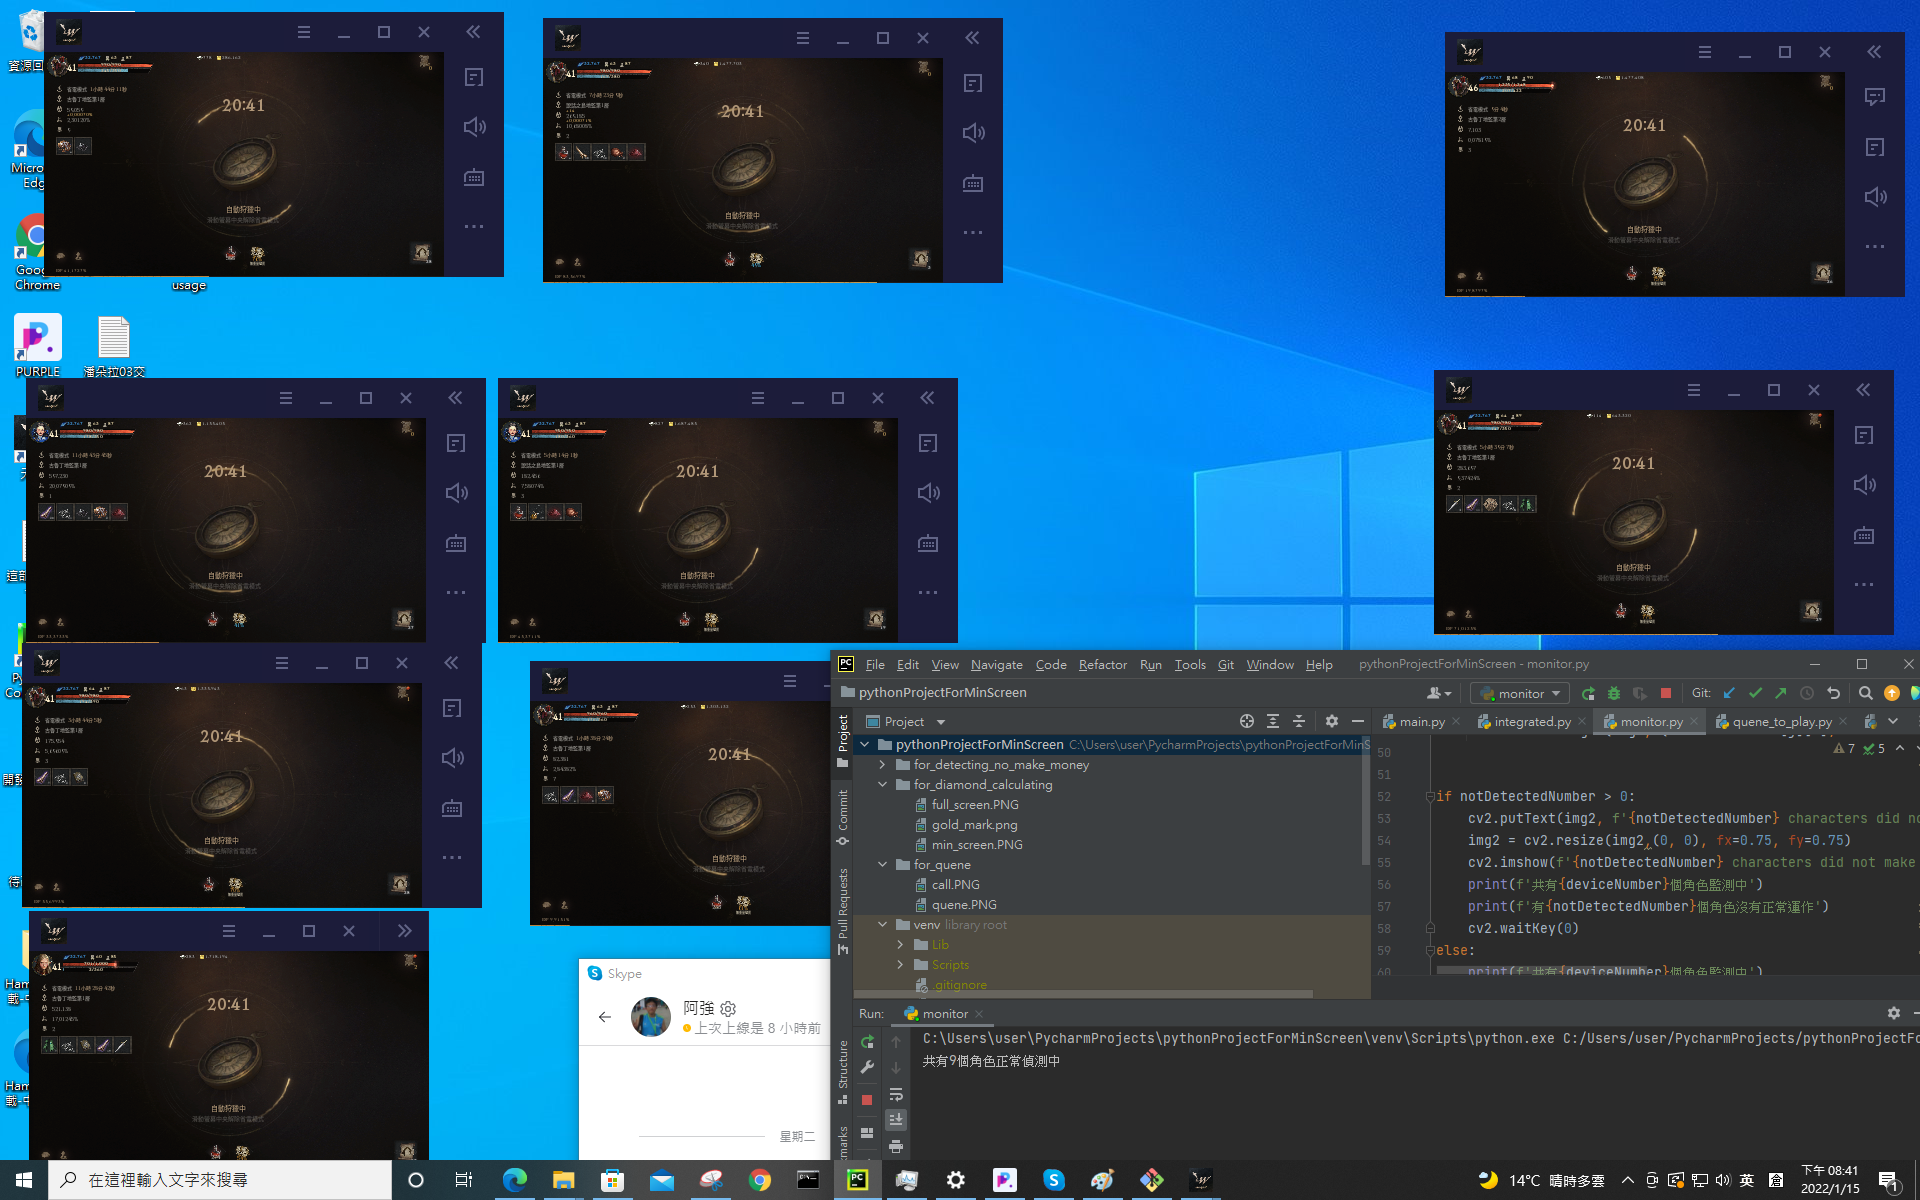
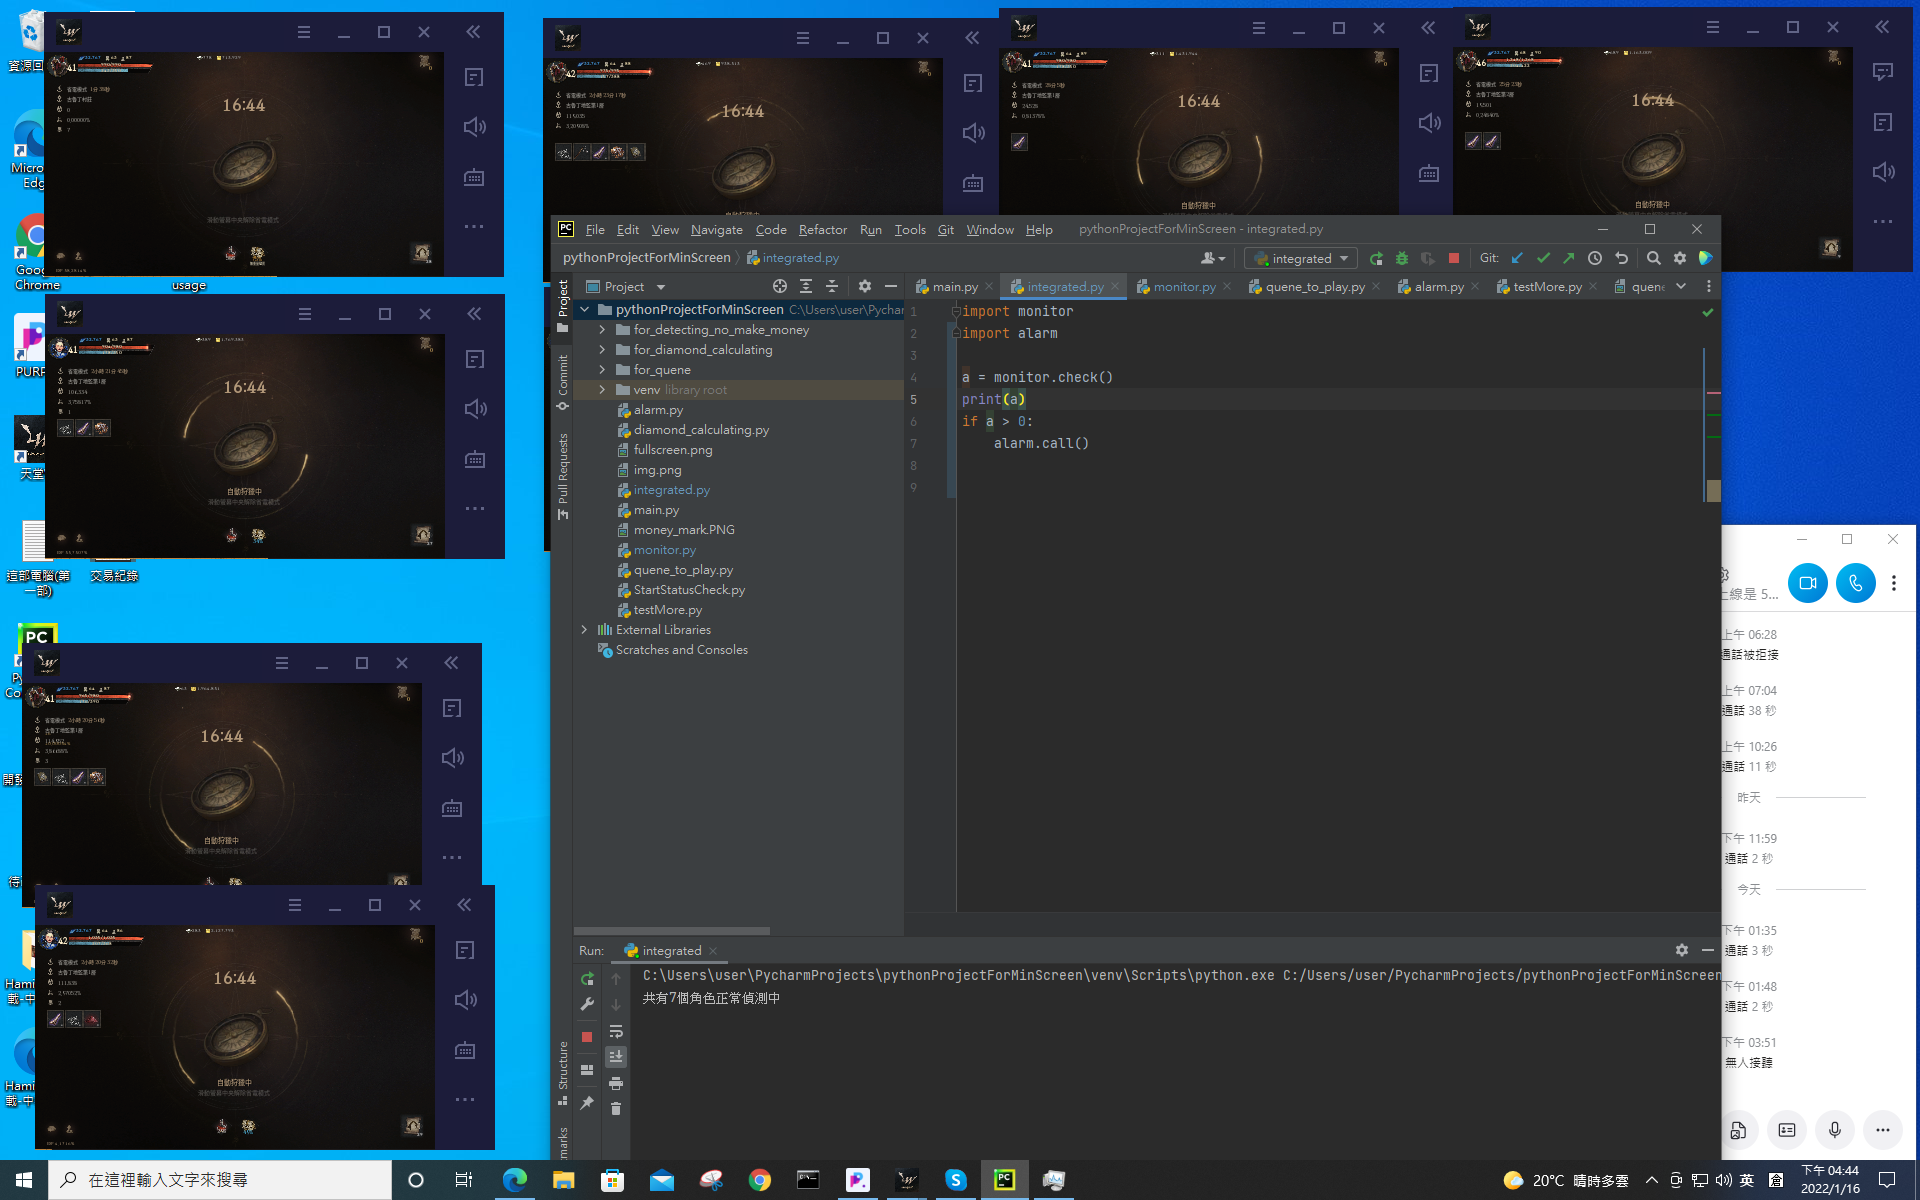
2022/1/16 增加了偵測有人沒在賺錢就會打電話。

diff --git a/monitor.py b/monitor.py
@@ -1,62 +1,73 @@
+# 說明:這個模組在被執行時會標出沒有賺錢的角色，而被import且執行check()時，會回傳一個數字，
+# 為沒有在賺錢的角色數量。
+
 import pyautogui
 import pyscreenshot as ImageGrab
 import cv2
 import time
-# 對螢幕截圖
-img = ImageGrab.grab()
-# 截圖存檔
-img.save(r'for_detecting_no_make_money\fullscreen.png')
-# 把存的檔取出來，要做存檔再存檔的原因是上面存檔的模組是pyscreenshot，下面讀檔的模組是opencv
-img1 = cv2.imread(r'for_detecting_no_make_money\fullscreen.png')
-# 要畫紅線的
-# img2 = img1.copy()
 
-# 這裡是用已存下
+def check():
+    # 對螢幕截圖
+    img = ImageGrab.grab()
+    # 截圖存檔
+    img.save(r'for_detecting_no_make_money\fullscreen.png')
+    # 把存的檔取出來，要做存檔再存檔的原因是上面存檔的模組是pyscreenshot，下面讀檔的模組是opencv
+    img1 = cv2.imread(r'for_detecting_no_make_money\fullscreen.png')
+    # 要畫紅線的
+    # img2 = img1.copy()
 
-
-position = pyautogui.locateAllOnScreen("money_mark.PNG")
-# 因為上面locateAllOnScreen的函數回傳的是generator，無法直接取其數量，所以設deviceNumber取數量
-deviceNumber = 0
-locationRecord = []
-for i in position:
-    deviceNumber += 1
-    locationRecord.append([i[0], i[1], i[0] + i[2] + 50, i[1] + i[3]])
-    picture = ImageGrab.grab(bbox=(i[0], i[1], i[0]+i[2]+50, i[1]+i[3]))
-    # print([i[0], i[1], i[0]+i[2]+50, i[1]+i[3]])
-
-    picture.save(rf'for_detecting_no_make_money\picture{deviceNumber}.png')
-    cv2.rectangle(img1, (i[0], i[1]), (i[0]+i[2]+50, i[1]+i[3]), (0, 255, 0), 2)
-# 下面這行只是確認有資料
-# print(locationRecord)
-print(f'共有{deviceNumber}個角色正常偵測中')
-# img1 = cv2.resize(img2, (0, 0), fx=0.75, fy=0.75)
-# cv2.imshow(f'{deviceNumber} characters detected', img1)
-# cv2.waitKey(0)
-notDetectedNumber = 0
-time.sleep(60)
-
-# 對螢幕截圖
-img2 = ImageGrab.grab()
-# 截圖存檔
-img2.save(r'for_detecting_no_make_money\fullscreen2.png')
-# 把存的檔取出來，要做存檔再存檔的原因是上面存檔的模組是pyscreenshot，下面讀檔的模組是opencv
-img2 = cv2.imread(r'for_detecting_no_make_money\fullscreen2.png')
-
-for j in range(deviceNumber):
-    if pyautogui.locateOnScreen(rf'for_detecting_no_make_money\picture{j+1}.png'):
-        #print(pyautogui.locateOnScreen(rf'for_detecting_no_make_money\picture{j+1}.png'))
-        notDetectedNumber += 1
-        cv2.rectangle(img2, (locationRecord[j][0], locationRecord[j][1]), (locationRecord[j][2], locationRecord[j][3]), (0, 0, 255), 2)
+    # 這裡是用已存下
 
 
-if notDetectedNumber > 0:
-    cv2.putText(img2, f'{notDetectedNumber} characters did not make money', (50, 50), cv2.FONT_HERSHEY_SIMPLEX, 1, (0, 0,255), 2)
-    img2 = cv2.resize(img2,(0, 0), fx=0.75, fy=0.75)
-    cv2.imshow(f'{notDetectedNumber} characters did not make money', img2)
-    print(f'共有{deviceNumber}個角色監測中')
-    print(f'有{notDetectedNumber}個角色沒有正常運作')
-    cv2.waitKey(0)
-else:
-    print(f'共有{deviceNumber}個角色監測中')
-    print("所有的角色都正常運作")
+    position = pyautogui.locateAllOnScreen("money_mark.PNG")
+    # 因為上面locateAllOnScreen的函數回傳的是generator，無法直接取其數量，所以設deviceNumber取數量
+    deviceNumber = 0
+    locationRecord = []
+    for i in position:
+        deviceNumber += 1
+        locationRecord.append([i[0], i[1], i[0] + i[2] + 50, i[1] + i[3]])
+        picture = ImageGrab.grab(bbox=(i[0], i[1], i[0]+i[2]+50, i[1]+i[3]))
+        # print([i[0], i[1], i[0]+i[2]+50, i[1]+i[3]])
+
+        picture.save(rf'for_detecting_no_make_money\picture{deviceNumber}.png')
+        cv2.rectangle(img1, (i[0], i[1]), (i[0]+i[2]+50, i[1]+i[3]), (0, 255, 0), 2)
+    # 下面這行只是確認有資料
+    # print(locationRecord)
+    print(f'共有{deviceNumber}個角色正常偵測中')
+    # img1 = cv2.resize(img2, (0, 0), fx=0.75, fy=0.75)
+    # cv2.imshow(f'{deviceNumber} characters detected', img1)
+    # cv2.waitKey(0)
+    notDetectedNumber = 0
+    time.sleep(60)
+
+    # 對螢幕截圖
+    img2 = ImageGrab.grab()
+    # 截圖存檔
+    img2.save(r'for_detecting_no_make_money\fullscreen2.png')
+    # 把存的檔取出來，要做存檔再存檔的原因是上面存檔的模組是pyscreenshot，下面讀檔的模組是opencv
+    img2 = cv2.imread(r'for_detecting_no_make_money\fullscreen2.png')
+
+    for j in range(deviceNumber):
+        if pyautogui.locateOnScreen(rf'for_detecting_no_make_money\picture{j+1}.png'):
+            #print(pyautogui.locateOnScreen(rf'for_detecting_no_make_money\picture{j+1}.png'))
+            notDetectedNumber += 1
+            cv2.rectangle(img2, (locationRecord[j][0], locationRecord[j][1]), (locationRecord[j][2], locationRecord[j][3]), (0, 0, 255), 2)
+
+    if __name__ == '__name__':    # 展示圖的部分在這個模組被引用時不展示
+        if notDetectedNumber > 0:
+            cv2.putText(img2, f'{notDetectedNumber} characters did not make money', (50, 50), cv2.FONT_HERSHEY_SIMPLEX, 1, (0, 0,255), 2)
+            img2 = cv2.resize(img2,(0, 0), fx=0.75, fy=0.75)
+            cv2.imshow(f'{notDetectedNumber} characters did not make money', img2)
+            print(f'共有{deviceNumber}個角色監測中')
+            print(f'有{notDetectedNumber}個角色沒有正常運作')
+            cv2.waitKey(0)
+        else:
+            print(f'共有{deviceNumber}個角色監測中')
+            print("所有的角色都正常運作")
+
+    return notDetectedNumber  #check這個函式會回傳沒有在賺錢的人物
+
+
+if __name__ == '__main__':
+    check()
 

diff --git a/integrated.py b/integrated.py
@@ -1,2 +1,7 @@
 import monitor
-monitor
+import alarm
+
+a = monitor.check()   # 沒在賺錢的角色數量。
+print(a)
+if a > 0:
+    alarm.call()     # 打電話
